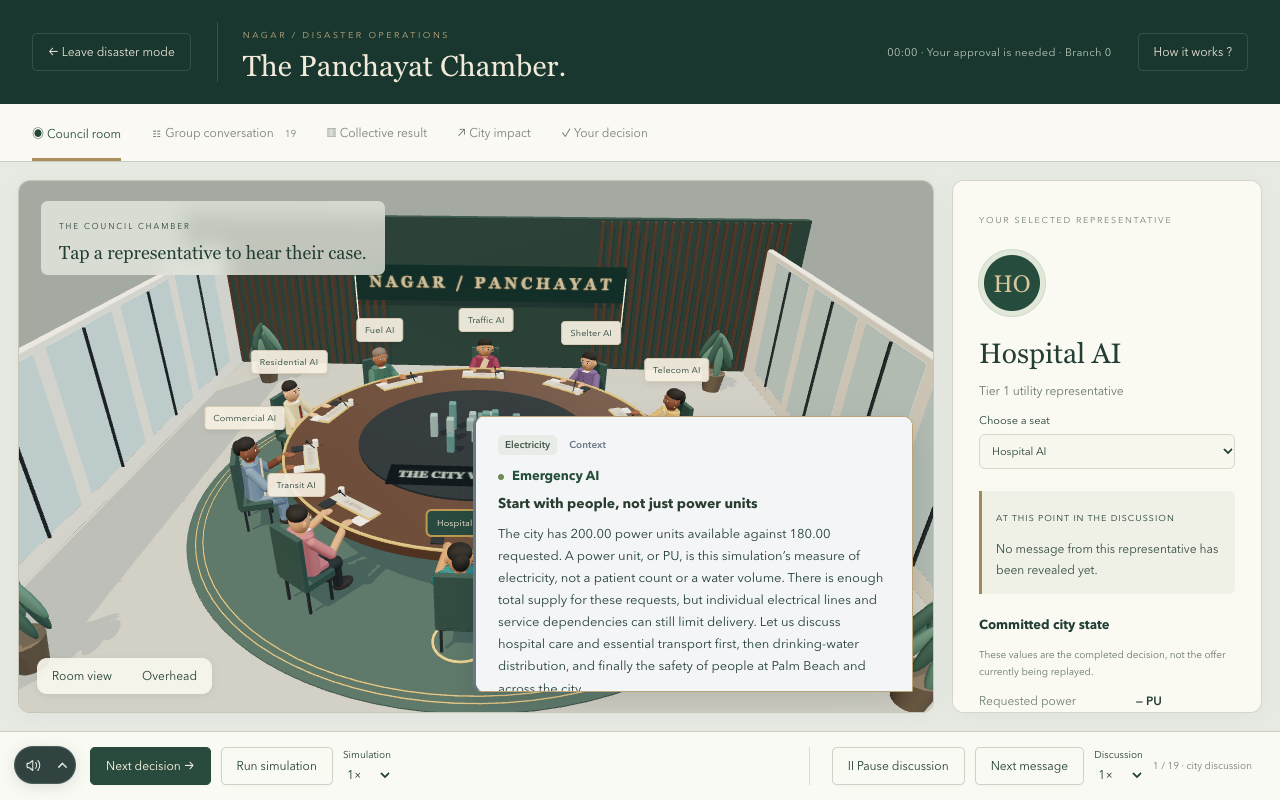
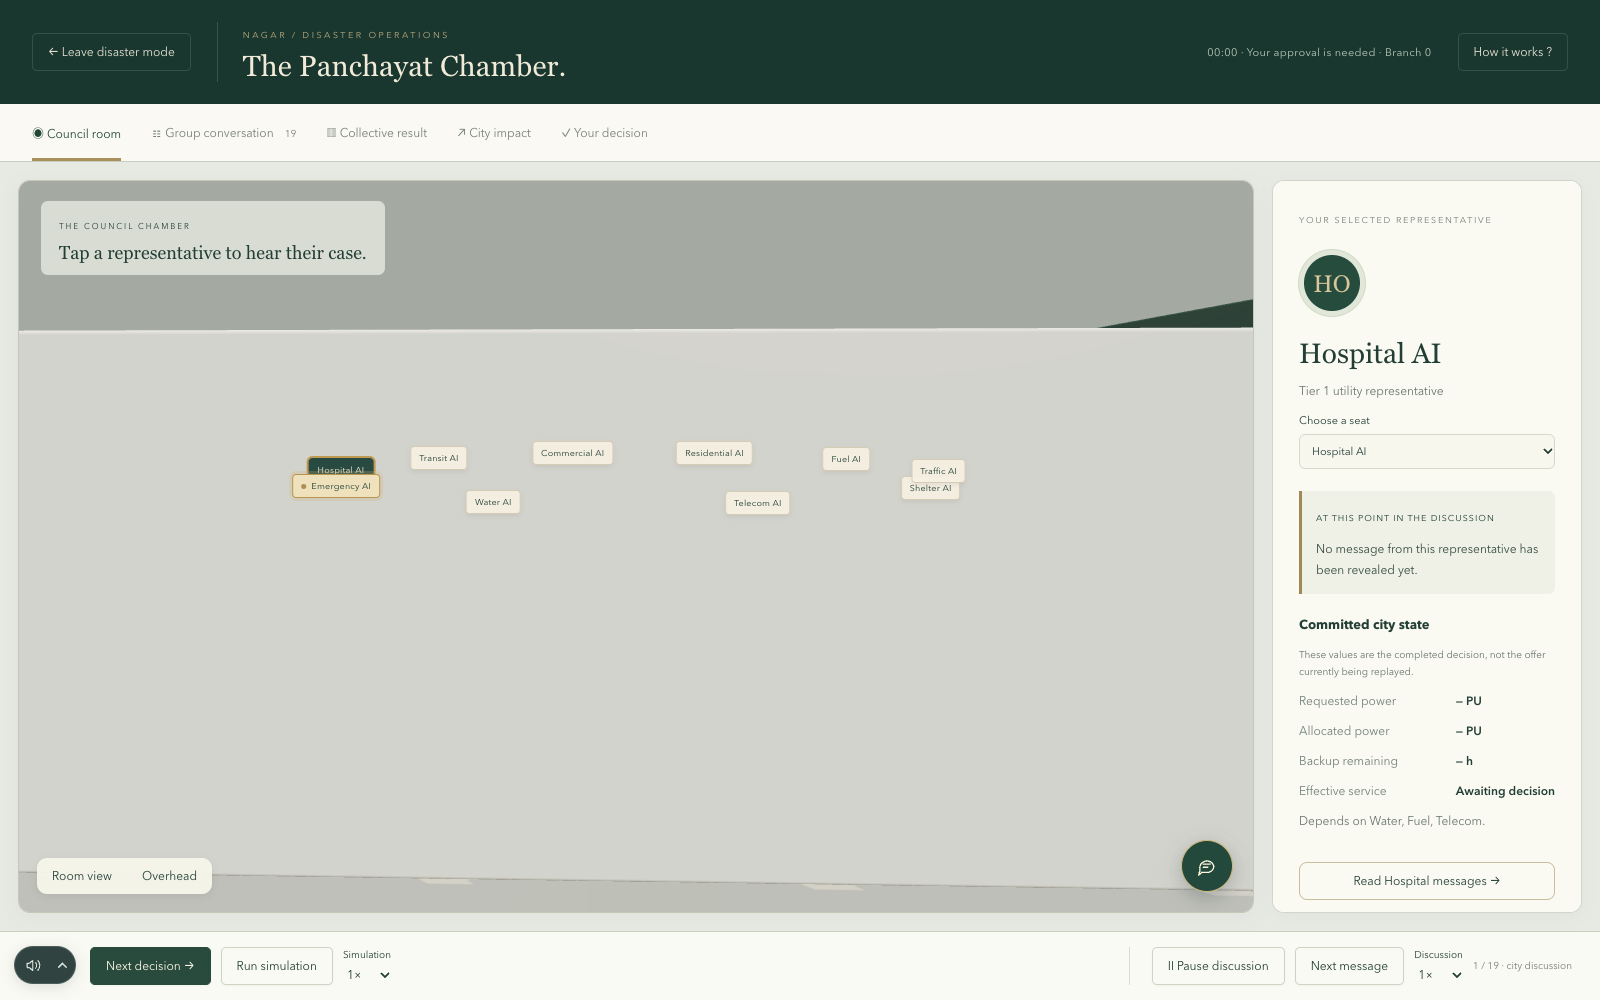
docs(readme): add night mode visual assets and update Panchayat courtroom photo
Include dynamic lighting cycle GIF (daylight -> golden hour -> cozy night), night mode city skyline, night disaster operations, and an enhanced courtroom photo of the Panchayat council chamber.

diff --git a/scripts/capture-night-and-council.ts b/scripts/capture-night-and-council.ts
@@ -1,0 +1,217 @@
+import { chromium } from "@playwright/test";
+import { execSync } from "node:child_process";
+import { mkdir, readdir, unlink } from "node:fs/promises";
+import path from "node:path";
+
+const ASSETS_DIR = path.resolve("docs/assets");
+const RECORDINGS_DIR = path.resolve("scratch/recordings");
+const PREVIEW_URL = process.env.PREVIEW_URL ?? "http://127.0.0.1:4173/";
+
+await mkdir(ASSETS_DIR, { recursive: true });
+await mkdir(RECORDINGS_DIR, { recursive: true });
+
+for (const file of await readdir(RECORDINGS_DIR)) {
+  if (file.endsWith(".webm")) {
+    await unlink(path.join(RECORDINGS_DIR, file));
+  }
+}
+
+console.log("Launching Chromium for Night Mode & Council Room Retake...");
+const browser = await chromium.launch({
+  headless: true,
+  executablePath:
+    process.env.CHROME_PATH ??
+    "/Applications/Google Chrome.app/Contents/MacOS/Google Chrome",
+  args: ["--enable-unsafe-swiftshader", "--disable-gpu-sandbox"],
+});
+
+try {
+  // ==========================================
+  // 1. NIGHT MODE & LIGHTING CYCLE
+  // ==========================================
+  console.log("Capturing Night Mode and Lighting Transitions...");
+  const context1 = await browser.newContext({
+    viewport: { width: 1440, height: 900 },
+    recordVideo: {
+      dir: RECORDINGS_DIR,
+      size: { width: 1440, height: 900 },
+    },
+  });
+
+  const page1 = await context1.newPage();
+  await page1.goto(PREVIEW_URL + "?seed=42");
+  await page1.waitForFunction(() => !!window.vidyutCity);
+  await page1.waitForTimeout(1500);
+
+  // Smooth camera orbit in daylight
+  await page1.mouse.move(720, 450);
+  await page1.mouse.down({ button: "left" });
+  for (let dx = 0; dx < 120; dx += 15) {
+    await page1.mouse.move(720 + dx, 450 - dx * 0.15);
+    await page1.waitForTimeout(40);
+  }
+  await page1.mouse.up({ button: "left" });
+  await page1.waitForTimeout(1000);
+
+  // Switch to Cozy Night
+  await page1.locator("#daylight").click();
+  await page1.waitForFunction(
+    () => document.body.dataset.lighting === "night",
+  );
+  await page1.waitForTimeout(2000);
+
+  // Capture High-Res City Night Mode
+  await page1.screenshot({
+    path: path.join(ASSETS_DIR, "city-night-mode.png"),
+  });
+
+  // Orbit camera in night mode to showcase glow, traffic headlights, and coastline
+  await page1.mouse.move(720, 450);
+  await page1.mouse.down({ button: "left" });
+  for (let dx = 0; dx < 140; dx += 15) {
+    await page1.mouse.move(720 + dx, 450 - dx * 0.1);
+    await page1.waitForTimeout(40);
+  }
+  await page1.mouse.up({ button: "left" });
+  await page1.waitForTimeout(1500);
+
+  // Switch to Golden Hour
+  await page1.locator("#daylight").click();
+  await page1.waitForFunction(
+    () => document.body.dataset.lighting === "golden",
+  );
+  await page1.waitForTimeout(2000);
+
+  // Capture High-Res Golden Hour
+  await page1.screenshot({
+    path: path.join(ASSETS_DIR, "city-golden-hour.png"),
+  });
+
+  // Switch back to Day
+  await page1.locator("#daylight").click();
+  await page1.waitForFunction(
+    () => document.body.dataset.lighting === "day",
+  );
+  await page1.waitForTimeout(1000);
+
+  const video1 = await page1.video()?.path();
+  await context1.close();
+
+  // ==========================================
+  // 2. DISASTER NIGHT RESPONSE
+  // ==========================================
+  console.log("Capturing Disaster Response at Night...");
+  const pageDisaster = await browser.newPage({
+    viewport: { width: 1440, height: 900 },
+  });
+  await pageDisaster.goto(PREVIEW_URL + "?seed=42");
+  await pageDisaster.waitForFunction(() => !!window.vidyutCity);
+
+  // Set night mode
+  await pageDisaster.locator("#daylight").click();
+  await pageDisaster.waitForFunction(
+    () => document.body.dataset.lighting === "night",
+  );
+
+  // Enter council and look at city impact
+  await pageDisaster.locator("#enter-council").click();
+  await pageDisaster.waitForFunction(
+    () => window.vidyutCity?.getSimulation().state === "AwaitingHuman",
+  );
+  await pageDisaster.evaluate(async () => {
+    const s = window.vidyutCity.getSimulation();
+    if (s.state === "AwaitingHuman" && s.plan) {
+      await window.vidyutCity.command({
+        type: "APPROVE",
+        planId: s.plan.id,
+        hash: s.plan.hash,
+      });
+    }
+    await window.vidyutCity.command({ type: "STEP" });
+  });
+  await pageDisaster.waitForFunction(
+    () => window.vidyutCity?.getSimulation().tick?.t === 0,
+  );
+  await pageDisaster.locator('[data-room-tab="impact"]').click();
+  await pageDisaster.waitForTimeout(1500);
+
+  await pageDisaster.screenshot({
+    path: path.join(ASSETS_DIR, "disaster-night-impact.png"),
+  });
+  await pageDisaster.close();
+
+  // ==========================================
+  // 3. COURT ROOM PANCHAYAT PHOTO RETAKE
+  // ==========================================
+  console.log("Retaking Court Room Panchayat Chamber Photo...");
+  const pageCouncil = await browser.newPage({
+    viewport: { width: 1600, height: 1000 },
+  });
+  await pageCouncil.goto(PREVIEW_URL + "?seed=42");
+  await pageCouncil.waitForFunction(() => !!window.vidyutCity);
+
+  await pageCouncil.locator("#enter-council").click();
+  await pageCouncil.waitForFunction(
+    () => window.vidyutCity?.getSimulation().state === "AwaitingHuman",
+  );
+  await pageCouncil.waitForTimeout(1500);
+
+  // Smoothly orbit camera slightly for a stunning three-quarter isometric perspective
+  const canvas = pageCouncil.locator("#conference-canvas");
+  const box = await canvas.boundingBox();
+  if (box) {
+    const cx = box.x + box.width / 2;
+    const cy = box.y + box.height / 2;
+    await pageCouncil.mouse.move(cx, cy);
+    await pageCouncil.mouse.down({ button: "left" });
+    await pageCouncil.mouse.move(cx - 180, cy - 40, { steps: 25 });
+    await pageCouncil.mouse.up({ button: "left" });
+    await pageCouncil.waitForTimeout(1200);
+  }
+
+  // Select Hospital AI to highlight delegate with halo ring and microphone
+  await pageCouncil.locator('[data-delegate="hospital"]').click();
+  await pageCouncil.waitForTimeout(1000);
+
+  // Retake Primary 3D Panchayat Chamber Photo
+  await pageCouncil.screenshot({
+    path: path.join(ASSETS_DIR, "panchayat-chamber-3d.png"),
+  });
+
+  // Retake Dedicated Courtroom Panchayat View
+  await pageCouncil.screenshot({
+    path: path.join(ASSETS_DIR, "panchayat-courtroom-close.png"),
+  });
+
+  // Step the simulation once to show active negotiation speech bubble
+  await pageCouncil.locator('[data-room-tab="evidence"]').click();
+  await pageCouncil.locator("#guide-approve").click();
+  await pageCouncil.locator("#room-step").click();
+  await pageCouncil.waitForFunction(
+    () => window.vidyutCity?.getSimulation().tick?.t === 0,
+  );
+  await pageCouncil.locator('[data-room-tab="room"]').click();
+  await pageCouncil.waitForTimeout(1000);
+
+  await pageCouncil.screenshot({
+    path: path.join(ASSETS_DIR, "panchayat-deliberation-active.png"),
+  });
+
+  await pageCouncil.close();
+
+  // ==========================================
+  // 4. CONVERT NIGHT CYCLE VIDEO TO GIF
+  // ==========================================
+  if (video1) {
+    const gif = path.join(ASSETS_DIR, "lighting-cycle-day-to-night.gif");
+    console.log(`Generating ${gif} from ${video1}...`);
+    execSync(
+      `/opt/homebrew/bin/ffmpeg -y -i "${video1}" -vf "fps=10,scale=640:-1:flags=lanczos,split[s0][s1];[s0]palettegen=max_colors=128[p];[s1][p]paletteuse=dither=bayer" "${gif}"`,
+      { stdio: "inherit" },
+    );
+  }
+
+  console.log("All Night Mode and Panchayat Retake photos successfully created!");
+} finally {
+  await browser.close();
+}

diff --git a/README.md b/README.md
@@ -21,14 +21,37 @@ The frontend integrates a real-time 3D Three.js digital twin of the city with an
 
 *Live recording: Entering the 3D Panchayat chamber, inspecting delegates around the round table, reviewing the operator decision guide, and advancing real-time simulation ticks.*
 
-| 3D Chamber Perspective | Overhead Tactical Table |
+| 3D Council Chamber (Courtroom View) | Overhead Tactical Table |
 |---|---|
 | ![3D Council Chamber](docs/assets/panchayat-chamber-3d.png) | ![Panchayat Overhead View](docs/assets/panchayat-overhead.png) |
-| *Procedural representatives with name cards and microphones* | *Overhead camera view tracking table seating and active turns* |
+| *Retaken courtroom perspective: 10 delegates seated with name cards, microphones, and central city model* | *Overhead camera view tracking table seating and active turns* |
+
+| Active Deliberation in Session | Representative Detail & Inspection |
+|---|---|
+| ![Panchayat Deliberation Active](docs/assets/panchayat-deliberation-active.png) | ![Delegate Inspection](docs/assets/panchayat-delegate-inspection.png) |
+| *Real-time speech bubbles and status rings during active negotiation* | *Inspecting real-time demand, allocated power, and backup runtime* |
 
 ---
 
-### 2. Living 3D City & Disaster Response
+### 2. Time-of-Day Lighting & Night Mode
+
+![Daylight to Night Lighting Cycle](docs/assets/lighting-cycle-day-to-night.gif)
+
+*Live recording: Cycling through Nagar's dynamic illumination engine — transition from Daylight to Golden Hour to Cozy Night with glowing streetlamps, illuminated windows, traffic headlights, and coastal reflections.*
+
+| Cozy Night Skyline | Golden Hour Warm Sunset |
+|---|---|
+| ![City Night Mode](docs/assets/city-night-mode.png) | ![City Golden Hour](docs/assets/city-golden-hour.png) |
+| *Night mode: illuminated building facades, active bridge/boardwalk lamps, train lights, and ocean glint* | *Golden hour lighting casting long shadows across residential courtyards and civic towers* |
+
+| Disaster Operations at Night | Living 3D City Grid (Daylight) |
+|---|---|
+| ![Disaster Night Impact](docs/assets/disaster-night-impact.png) | ![City Overview](docs/assets/city-overview.png) |
+| *Disaster response at night: illuminated elevated power routes and status triage rings* | *Authored 3D city with street grid, traffic, rail, and coastline* |
+
+---
+
+### 3. Living 3D City & Disaster Response
 
 ![Living 3D City and Disaster Navigation](docs/assets/city-exploration-and-disaster.gif)
 
@@ -41,7 +64,7 @@ The frontend integrates a real-time 3D Three.js digital twin of the city with an
 
 ---
 
-### 3. Operator Interface & Negotiation Trace
+### 4. Operator Interface & Negotiation Trace
 
 | Operator Decision Guide | Negotiation Deliberation Chat |
 |---|---|
@@ -102,3 +125,5 @@ Click **Disaster council** in the city, or select the central Panchayat Square a
 Start in **Your decision**, approve the exact reviewed proposal, then choose **Next decision**. **Council room** shows each revealed message as a speaker bubble. Select a person or name label to inspect their latest revealed statement alongside the separately labelled committed service state. **Group conversation** presents actual protocol messages in a chat layout, with agent filtering, explicit failed deliveries, replay and a read-entire-decision option. Duplicate broadcast deliveries are summarized; no dialogue or emotional reactions are invented. **Collective result** shows committed allocations and service outcomes.
 
 Discussion replay has its own speed and never advances the engine. Simulation speed advances the disaster clock. Use **City impact** to inspect the same disaster run. **Leave disaster mode** pauses the simulation and restores the ordinary city, its colors and its independent activity controls. Technical controls remain available under **Advanced controls & detailed evidence**. Human figures and gestures are stylized procedural illustrations, not photorealistic scans. No external character assets or network calls are required.
+
+In **City impact**, use **People close-up** for a closer street view, or click an area warning to inspect that block. Disruption brings running pedestrians, amber assembly markers, hazard lights and reduced or halted transit. These are illustrative responses to committed service levels, not a safe-route or evacuation-order model. **Trace electricity to** isolates a facility's supply route; **Understand the map & signals** explains colors and quantities. Electricity routes sit above the skyline and can be hidden to inspect the streets.
